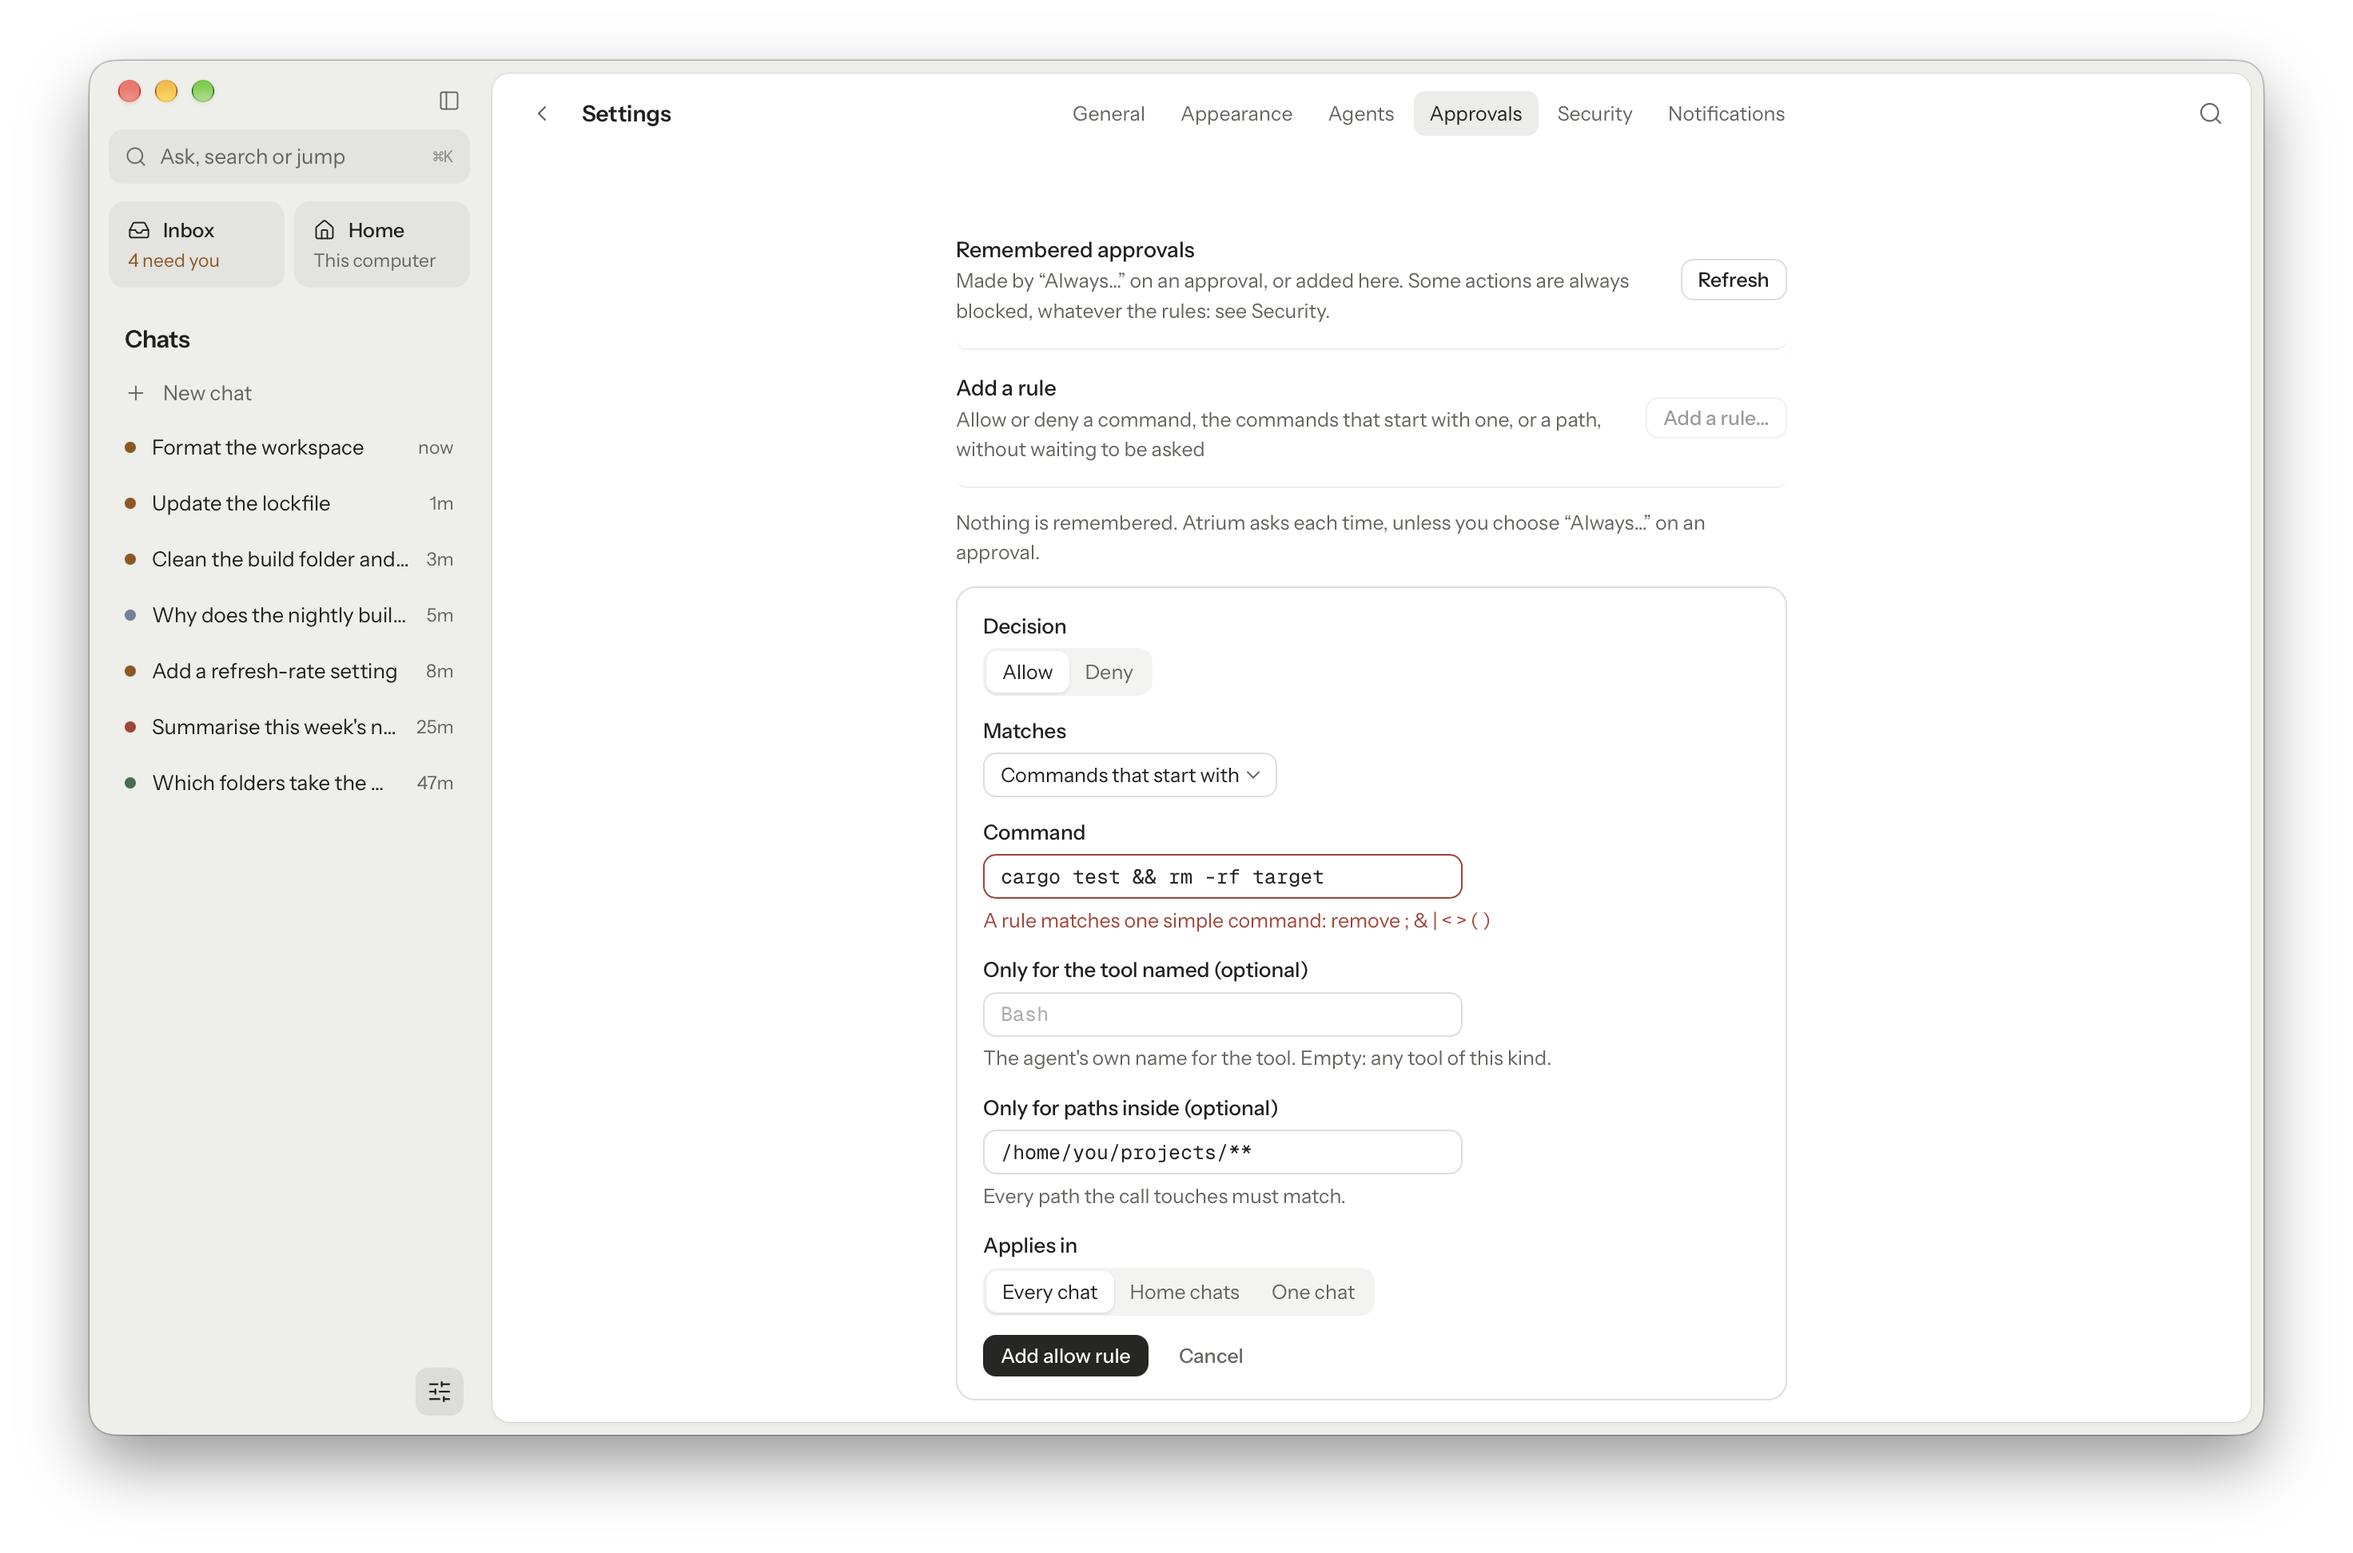
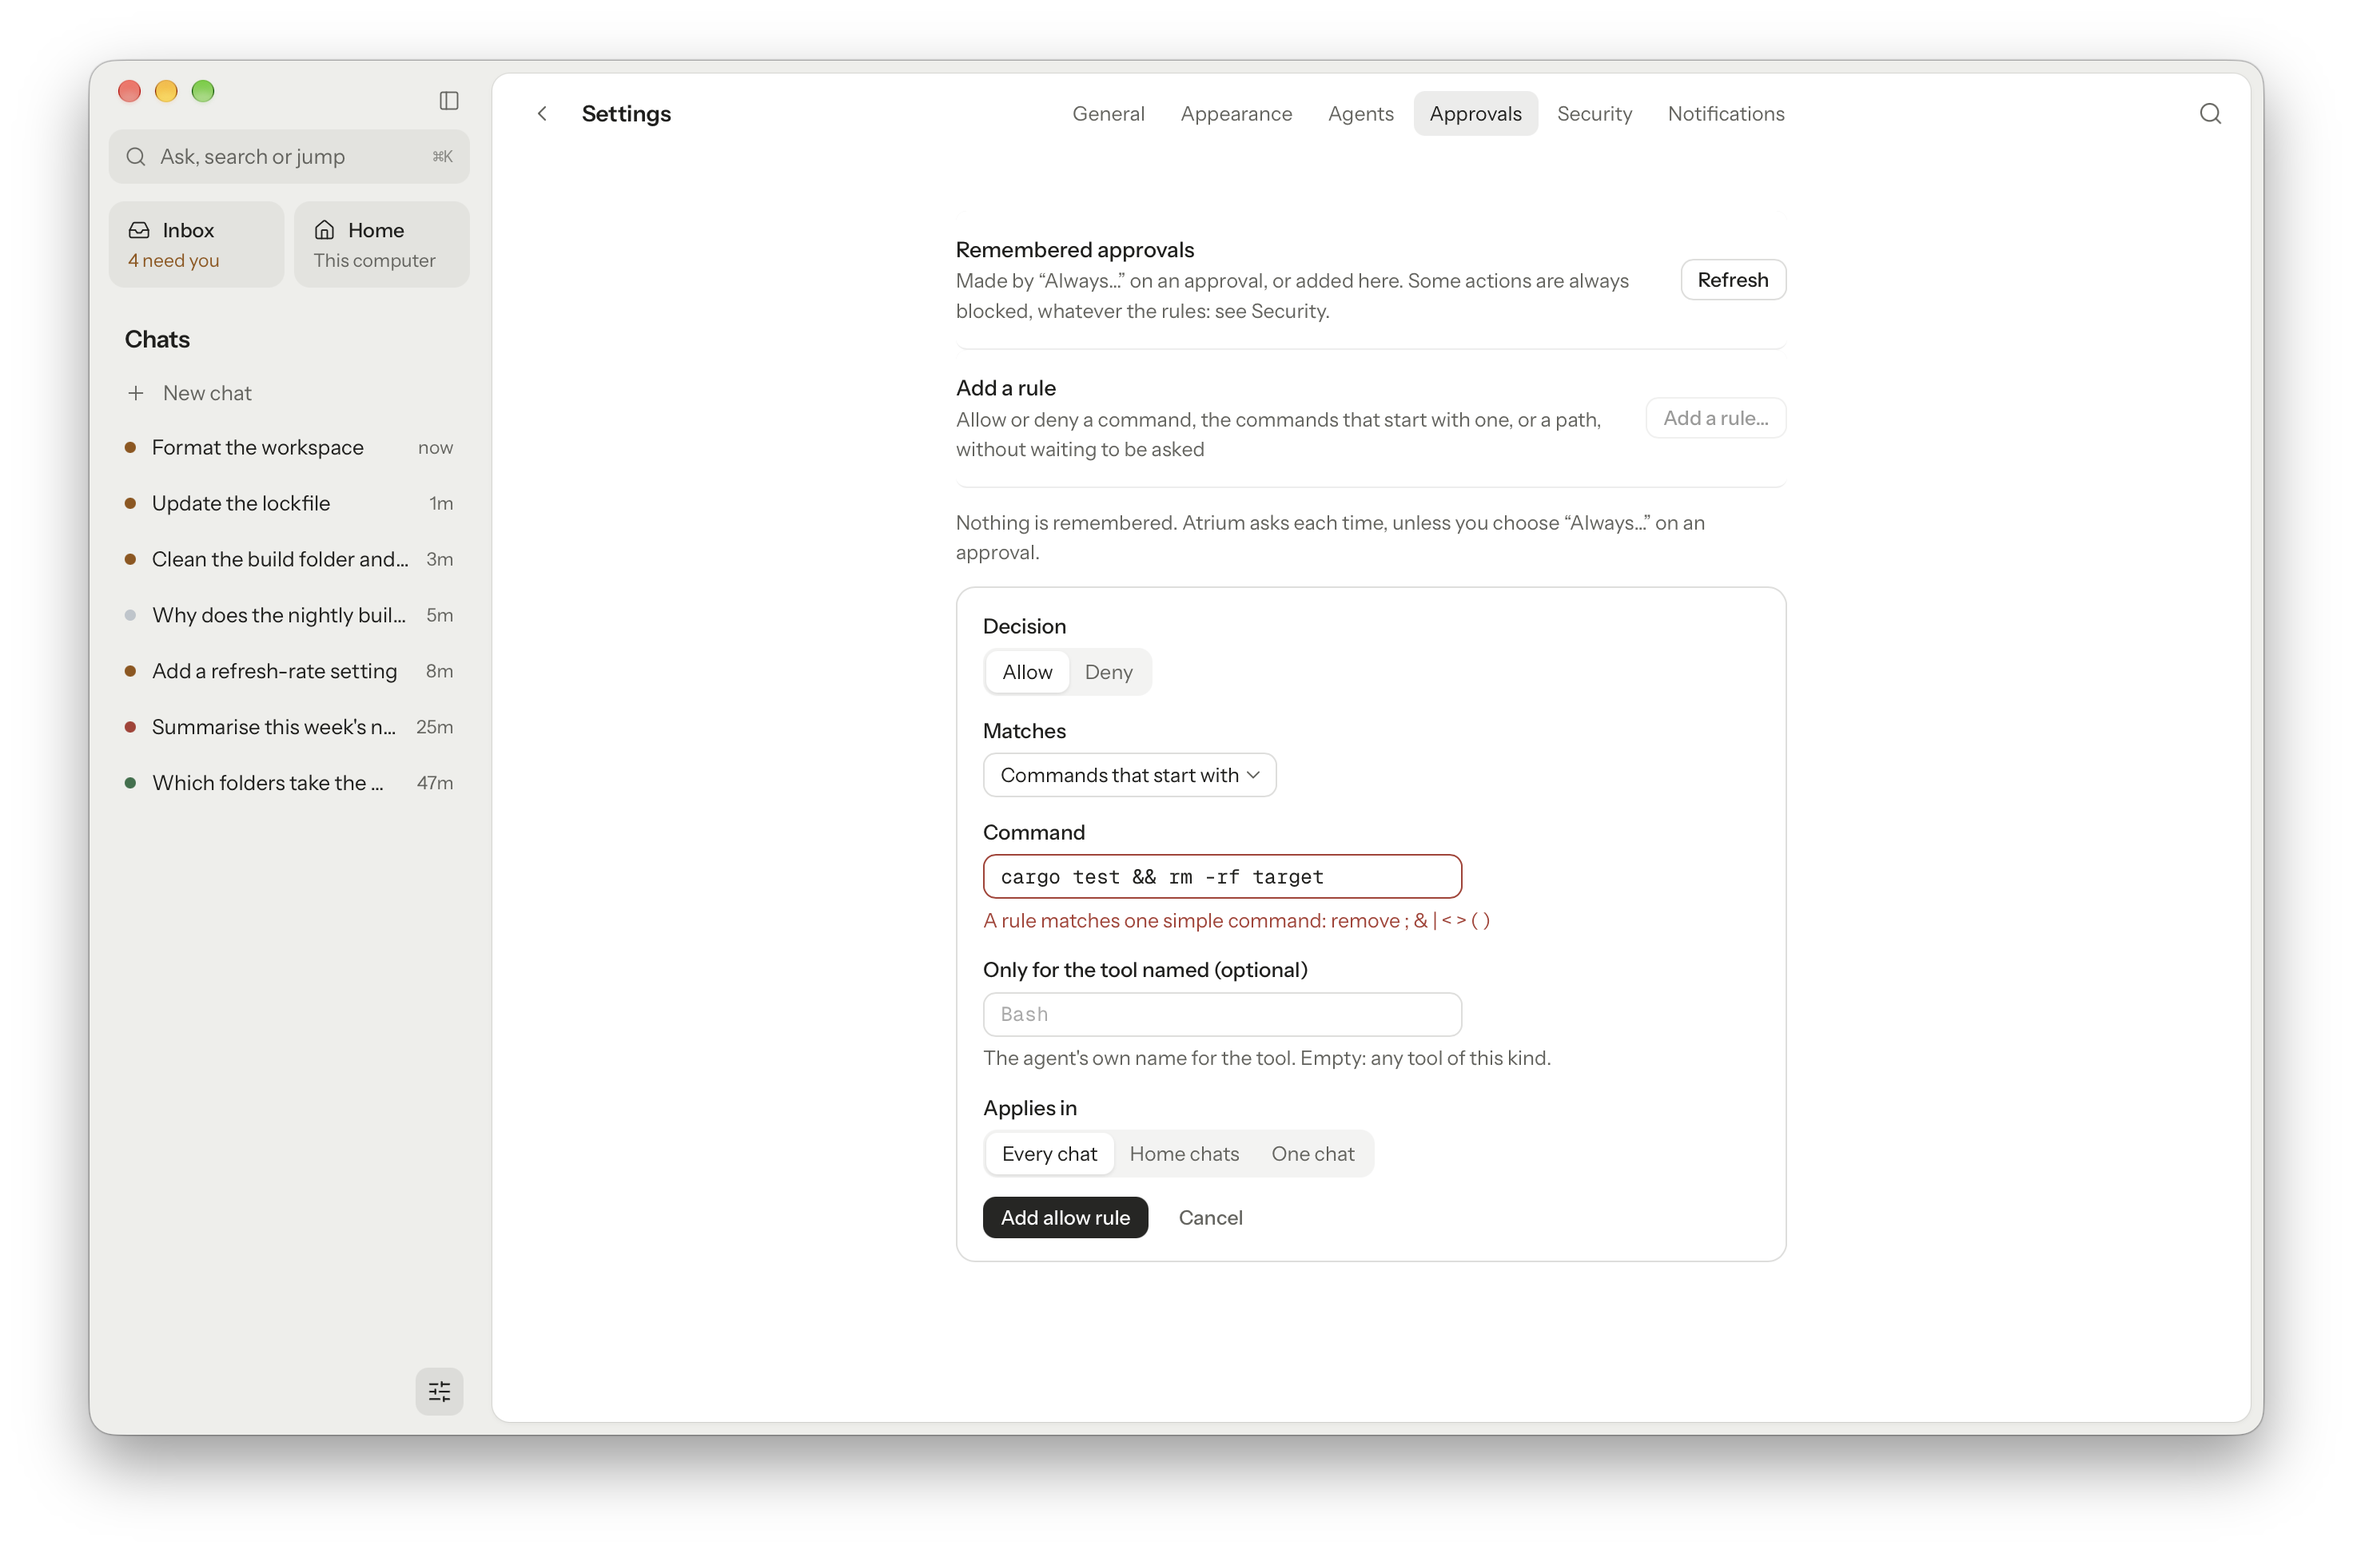
M1-23 round 3: handoff section; screenshots refreshed (light and dark, incl. the shell refusal)

Changed region(s): [[0.4062, 0.7099, 0.5625, 0.8951]]

diff --git a/docs/agents/handoffs/M1-23-ui-gaps.md b/docs/agents/handoffs/M1-23-ui-gaps.md
@@ -137,7 +137,7 @@ Branch: `agent/opus/M1-23-ui-gaps`, cut from `dev` at `4bf9874e`. Worker: Claude
 - `thread-menu`, `thread-rename`, `confirm-archive`;
 - `enforcement-badge`, `enforcement-details`;
 - `inbox-batch-selected`, `inbox-batch-result`;
-- `settings-rule-editor`, `settings-rule-editor-refused`, `settings-security`;
+- `settings-rule-editor`, `settings-rule-editor-refused`, `settings-rule-editor-shell-refused` (round 2), `settings-security`;
 - `palette-this-chat`.
 
 To regenerate them: `/usr/bin/lockf -k /tmp/atrium-gui-measure.lock python3 app/scripts/screenshots.py docs/agents/handoffs/M1-23-ui-gaps gaps` (the first argument is the output folder; corrected in round 2). They come from `app/src/gap-shots.ts`.
@@ -210,3 +210,54 @@ That run also writes a `gaps.log` there, which should be deleted.
 - The screenshots above.
 - Linux build of `save.rs` (CI or a Linux machine).
 - The two escalations.
+
+## Round 3 (D-116): fail-closed rule check, Inbox targeting
+
+Review: `docs/agents/reviews/M1-23-ui-gaps-round2.md`. Commits:
+- `1761ff6d`: the code;
+- the commit with this section: the screenshots, refreshed.
+
+| # | Finding | Result | What changed |
+|---|---|---|---|
+| 1 | Blocker: `commandRisk` spellings | Fixed, fail closed | See "How the check reads a command" below. |
+| 2 | Blocker: A/D/X on the wrong thread | Fixed | New `keyTargets` in `batch.ts`, shared by A, D and X. With focus in an approval card, they act on that card only, and only if it can still be answered; otherwise nothing happens, with no fallback to another card or another chat. With no card focused, A and D act on the picked chat's first approval, and X on all of that chat's approvals. Each row's `onFocusIn` sets `inboxPick`, so focus and pick are always in the same row. J and K move the pick and put focus back on the list. |
+| 3 | Major: path limit on non-file kinds | Fixed | `pathScopeOffered`: allow rules only, and only for path globs (always a file kind) or `any` of a `PATH_KINDS` kind. Web requests, MCP and other calls get no limit. |
+| 4 | Minor: `SAVE_MESSAGE` on Linux | Fixed | It now has `#[cfg(target_os = "macos")]`. |
+| 5a | Minor: glob classes | **Checked against globset; kept** | A temporary probe test built each glob with globset 0.4.21 (the engine's version), then was deleted and not committed. Results: `[a-z-_]` and `[a-z-0]` fail ("invalid range; 'a' > '_'"); `[\]`, `[\]]`, `[a-c-e]`, `[a-c-b]` and `[a\-z]` build; `[\` fails ("unclosed character class"). The round-2 checker already matched all of that. The review's fix would refuse `[\]`, which globset accepts, and accept `[a-z-_]`, which globset refuses. Tests now pin the probed results, and the code comment cites them. |
+| 5b | Minor: line breaks, brace depth | Fixed | `splitCommand` refuses `\n` and `\r` anywhere, quoted or not. New `expandsBraces` follows `shell.rs`'s scan: depth counting, a `,` or `..` at depth 1, stop at a blank or an operator, 256-character cap. So `echo {{a},b}` is refused, and `{}`, `{a}` and `{{a}}` stay allowed. |
+
+### How the check reads a command (`rule-form.ts` `commandRisk`, allow rules only)
+- **Names are folded** with `foldName`: the basename, lowercased (which also turns U+212A into `k`), then `ſ` to `s`, as `deny.rs` `lower` does. Every table is a `Set` or a `Map`, so names such as `constructor` and `__proto__` no longer crash it.
+- **Refused for both prefix and exact rules:**
+  - Shells, `eval`/`source`/`.`, and every wrapper, now including `sudoedit` and `run0` from `deny.rs` `PRIV`.
+  - For interpreters (`deny.rs` `is_interpreter`: `python*`, perl, ruby, node, deno, bun, php, lua, osascript, pwsh), any single-dash option word that holds a code-flag letter anywhere, compared case-insensitively. That covers attached code (`-c'…'`), digit clusters (`-0777ne`) and `-Ic`.
+  - Long code flags, with or without `=`, in any case.
+  - `eval` or `repl` as the first word that isn't an option (`deno -q eval`, `bun eval`).
+  - `-` as an operand (code from stdin).
+  - PowerShell (`pwsh`, `powershell`, also with `.exe`) given `-c`, `-e`, `-ec`, `-cwa`, or any prefix of `command`, `encodedcommand` or `commandwithargs`, written with `-`, `--` or `/`. Without a named `.ps1`, PowerShell is refused too, because Windows PowerShell reads bare words as a command.
+  - `npx`-style runners given `-c` or `--call`, and `find` with `-exec`, `-execdir`, `-ok` or `-okdir` (folded).
+- **Refused for prefix rules only:**
+  - An interpreter or package runner unless the script or package comes **right after the command**, with no option before it. For deno and bun, "right after" means after a verb such as `run`. An interpreter reads its own options only before the script, so words added after it go to the script. An option before the script could take code added later: `python3 -W ignore` would cover `python3 -W ignore -c …`. So `python3 -u build.py` and `npx -y prettier` work as exact rules only.
+  - Any prefix rule on `find`, because it would also cover `-exec` or `-delete` added later. The error points to "This exact command".
+- **Fail closed:** a code-flag letter after the script also refuses the rule (`perl tool.pl -e`).
+- **Warned:** an allowed interpreter or runner rule, remote runners, and an exact `find … -delete`.
+- The error texts say what to write instead, and the field's hint mentions putting the script right after the command.
+
+### Escalated (not changed)
+- **`shell.rs` matches shell and wrapper names case-sensitively.** `/bin/BASH -c '…'`, `Bash`, `ENV` and `/bin/baſh` aren't read as a shell or wrapper, so their payloads are never lexed. This holds even without any rule, and APFS resolves those names to the same binaries. The engine should fold names the way `deny.rs` `lower` does.
+- **Daemon-side `CreateRule` guard.** This is unchanged from round 2: the daemon accepts any draft, so other clients on the socket can create the rules the UI refuses.
+- **Round 2's engine escalations still stand:** the path-scope `all`/cwd behaviour, and derived `find -exec` units not being checked against allow rules.
+
+### Definition of done (round 3)
+| Command | Result |
+|---|---|
+| `pnpm typecheck`, `pnpm build` | pass |
+| `pnpm test` | pass: 19 files, 350 tests (338 before). New tests cover every spelling in the review plus case and APFS variants, `Object.prototype` names, PowerShell prefixes, the prefix-needs-a-script rule, `keyTargets` (focus on another row's card, a focused card that can't be answered, no focus), line breaks, nested braces, and the probed globset results. |
+| `cargo fmt --all --check`, `cargo clippy --workspace --all-targets -- -D warnings` | pass |
+| `cargo test -p atrium-app --no-fail-fast` | pass: 47 + 2 |
+| `m1_demo.py` under the GUI lock, 3 runs in a row | **27/27, 27/27, 27/27**. Step 11 now also checks that focusing a row's checkbox picks that row, and that J from a checkbox moves the pick and focus to the list; X then toggles only the newly picked row. |
+| Screenshots | **Refreshed** (the screen was unlocked): all 22, light and dark, under `docs/agents/handoffs/M1-23-ui-gaps/`, including the new `settings-rule-editor-shell-refused-*`. `settings-rule-editor-*` no longer has the path field. `gaps.log` deleted. This replaces round 2's "not refreshed" note. |
+
+### Left open
+- The Linux build of `save.rs` (CI or a Linux machine).
+- The escalations above.
